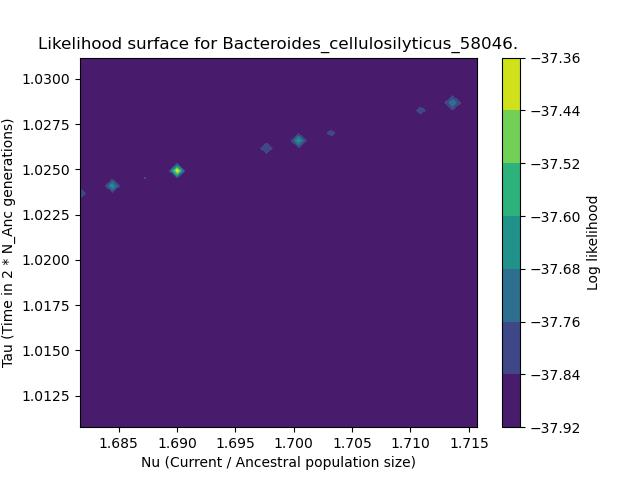
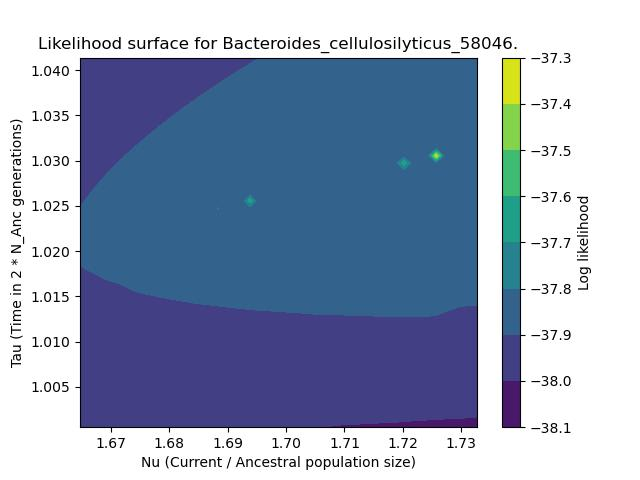
B. cellulosilyticus

diff --git a/Scripts/plot_likelihood.py b/Scripts/plot_likelihood.py
@@ -466,9 +466,9 @@ class PlotLikelihood():
 
                 npts = 50
 
-                x_range = numpy.linspace(x * 0.99, x * 1.01, npts)
+                x_range = numpy.linspace(x * 0.98, x * 1.02, npts)
                 # x_range = numpy.linspace(1.6, 2.4, npts)
-                y_range = numpy.linspace(y * 0.99, y * 1.01, npts)
+                y_range = numpy.linspace(y * 0.98, y * 1.02, npts)
                 # y_range = numpy.linspace(0.98, 1.04, npts)
 
                 X, Y = numpy.meshgrid(x_range, y_range)
